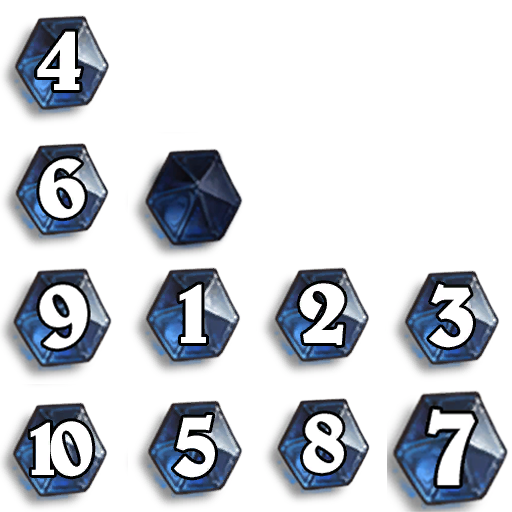
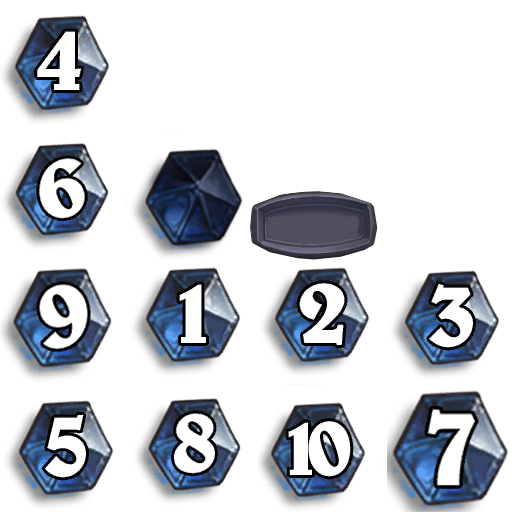
完成回合交换按钮

diff --git a/HearthStone/Assets/EndButton.cs b/HearthStone/Assets/EndButton.cs
@@ -1,0 +1,15 @@
+using UnityEngine;
+using System.Collections;
+
+public class EndButton : MonoBehaviour {
+
+	private UILabel label;
+
+	void Awake(){
+		label = transform.Find ("Label").GetComponent<UILabel>();
+	}
+
+	public void OnEndButtonClick(){
+		label.text = "对方回合";
+	}
+}
